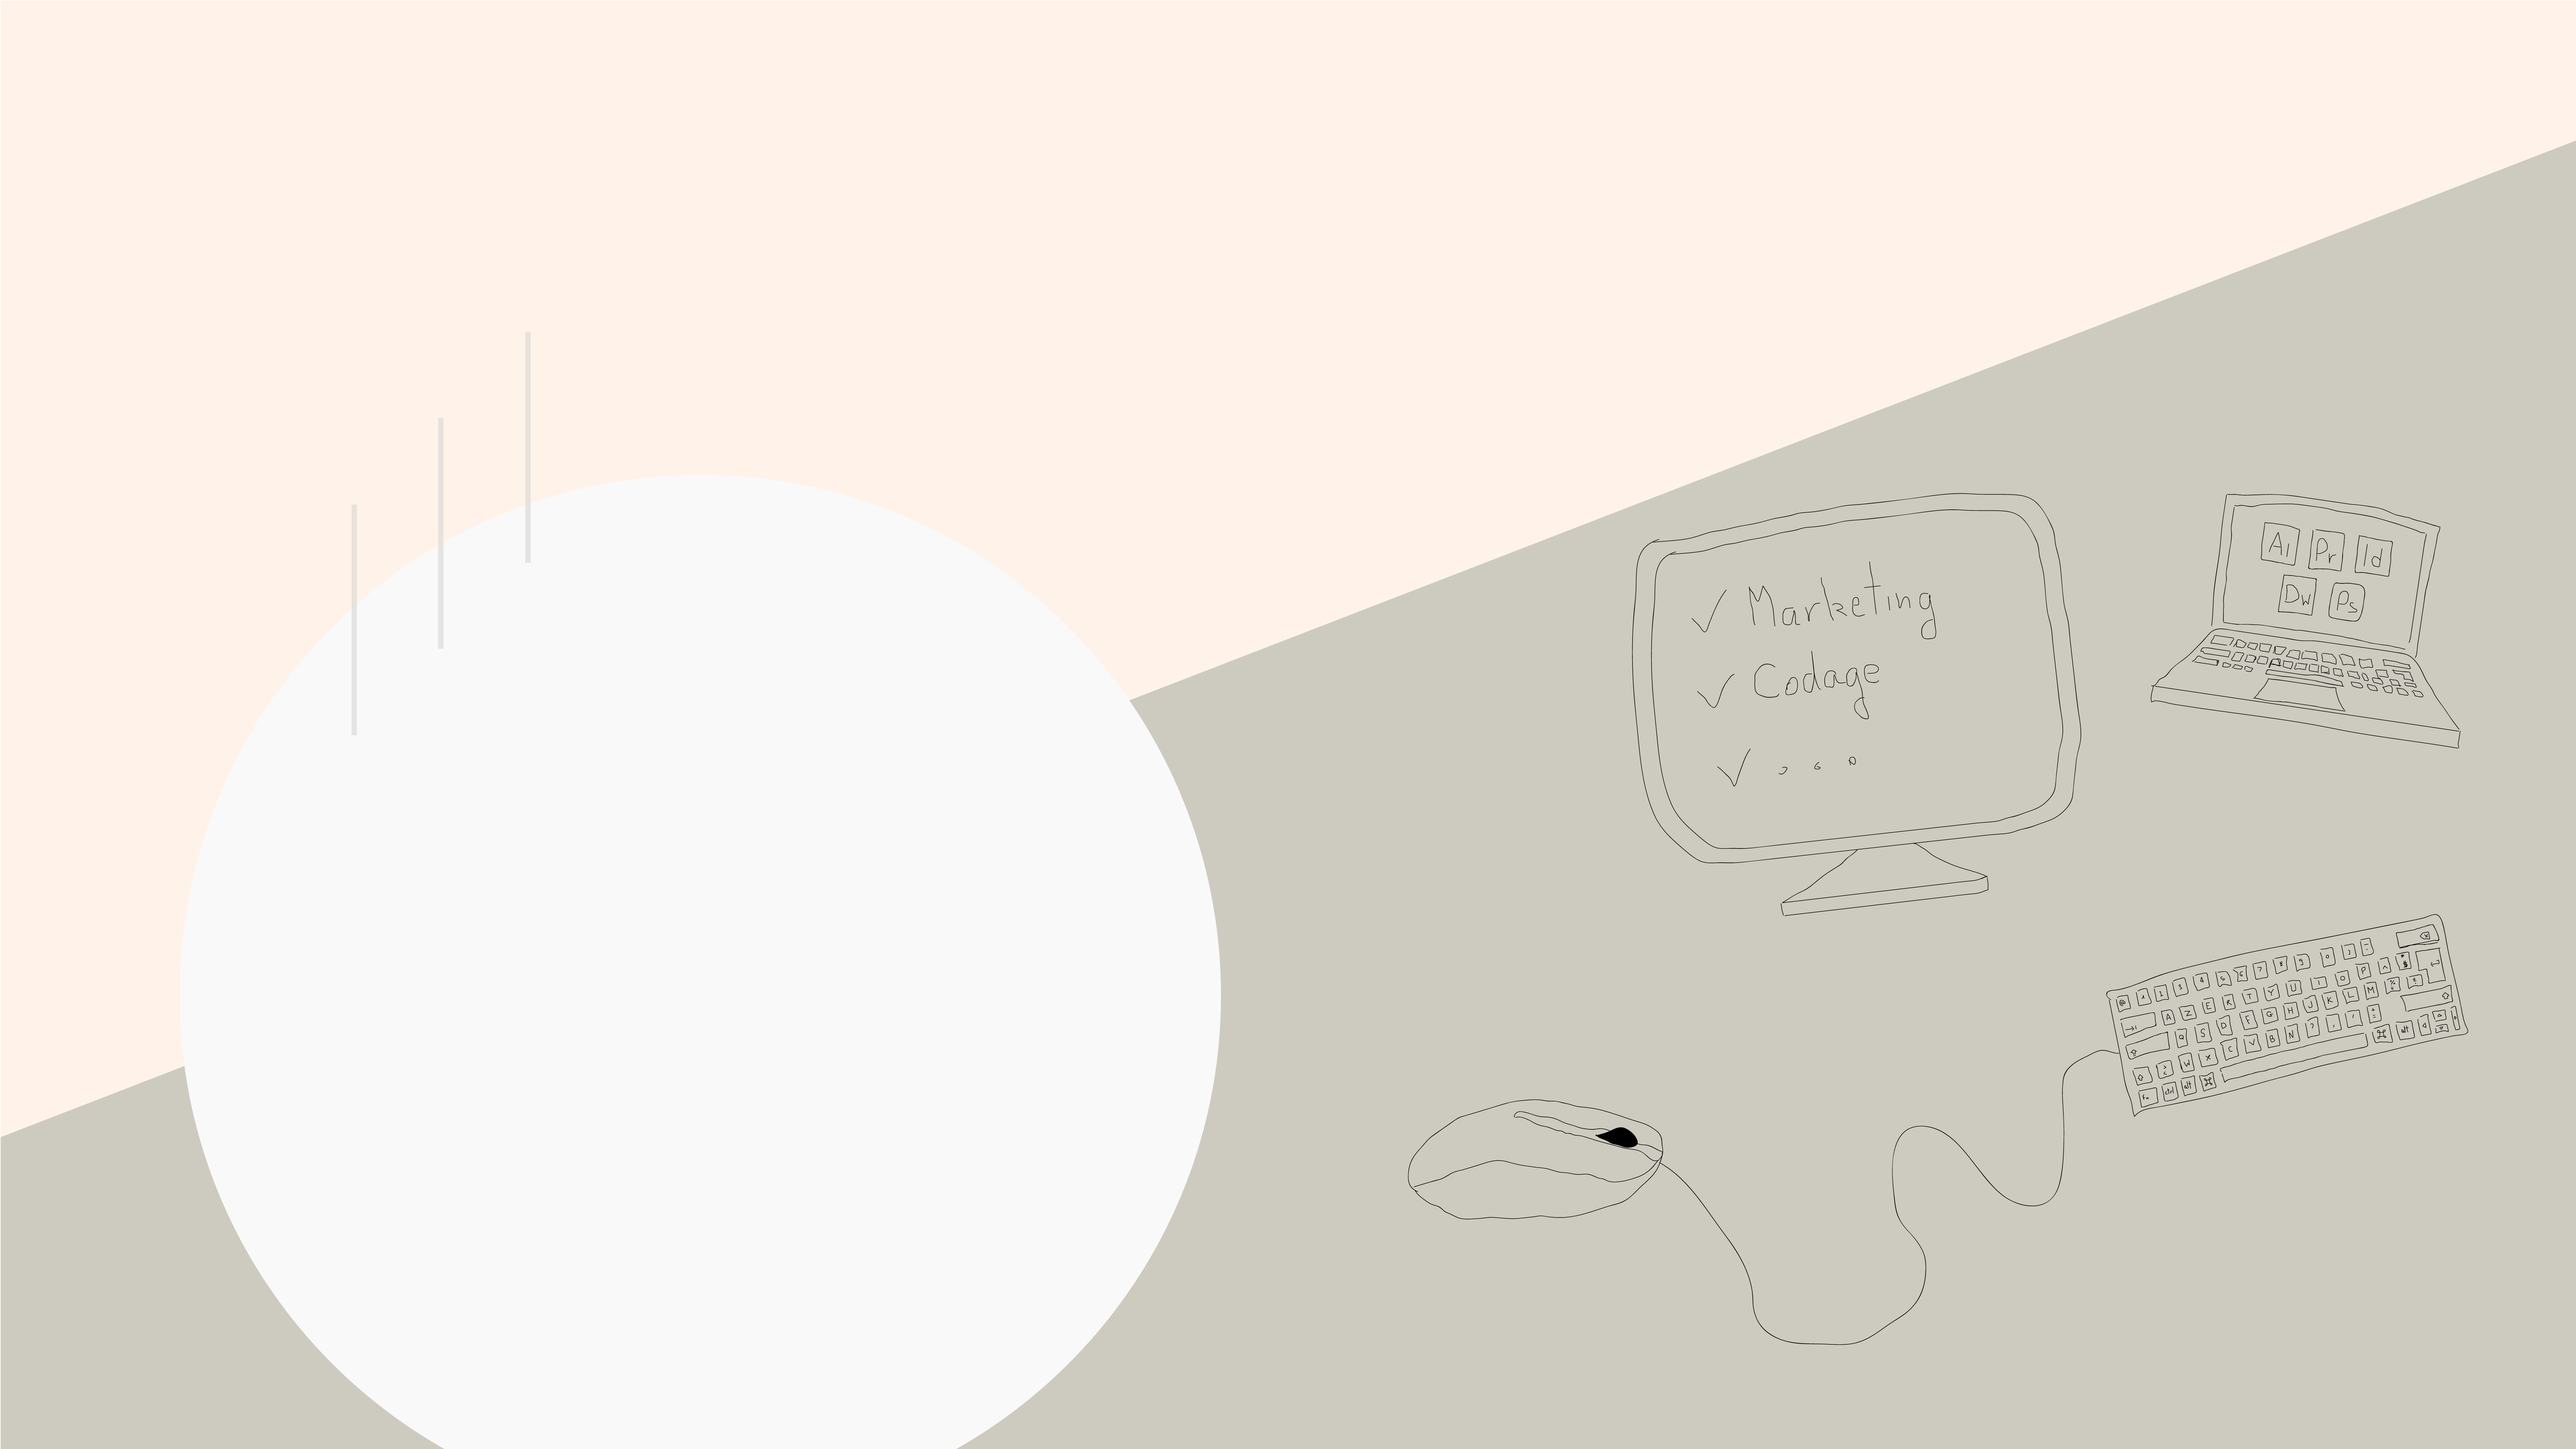
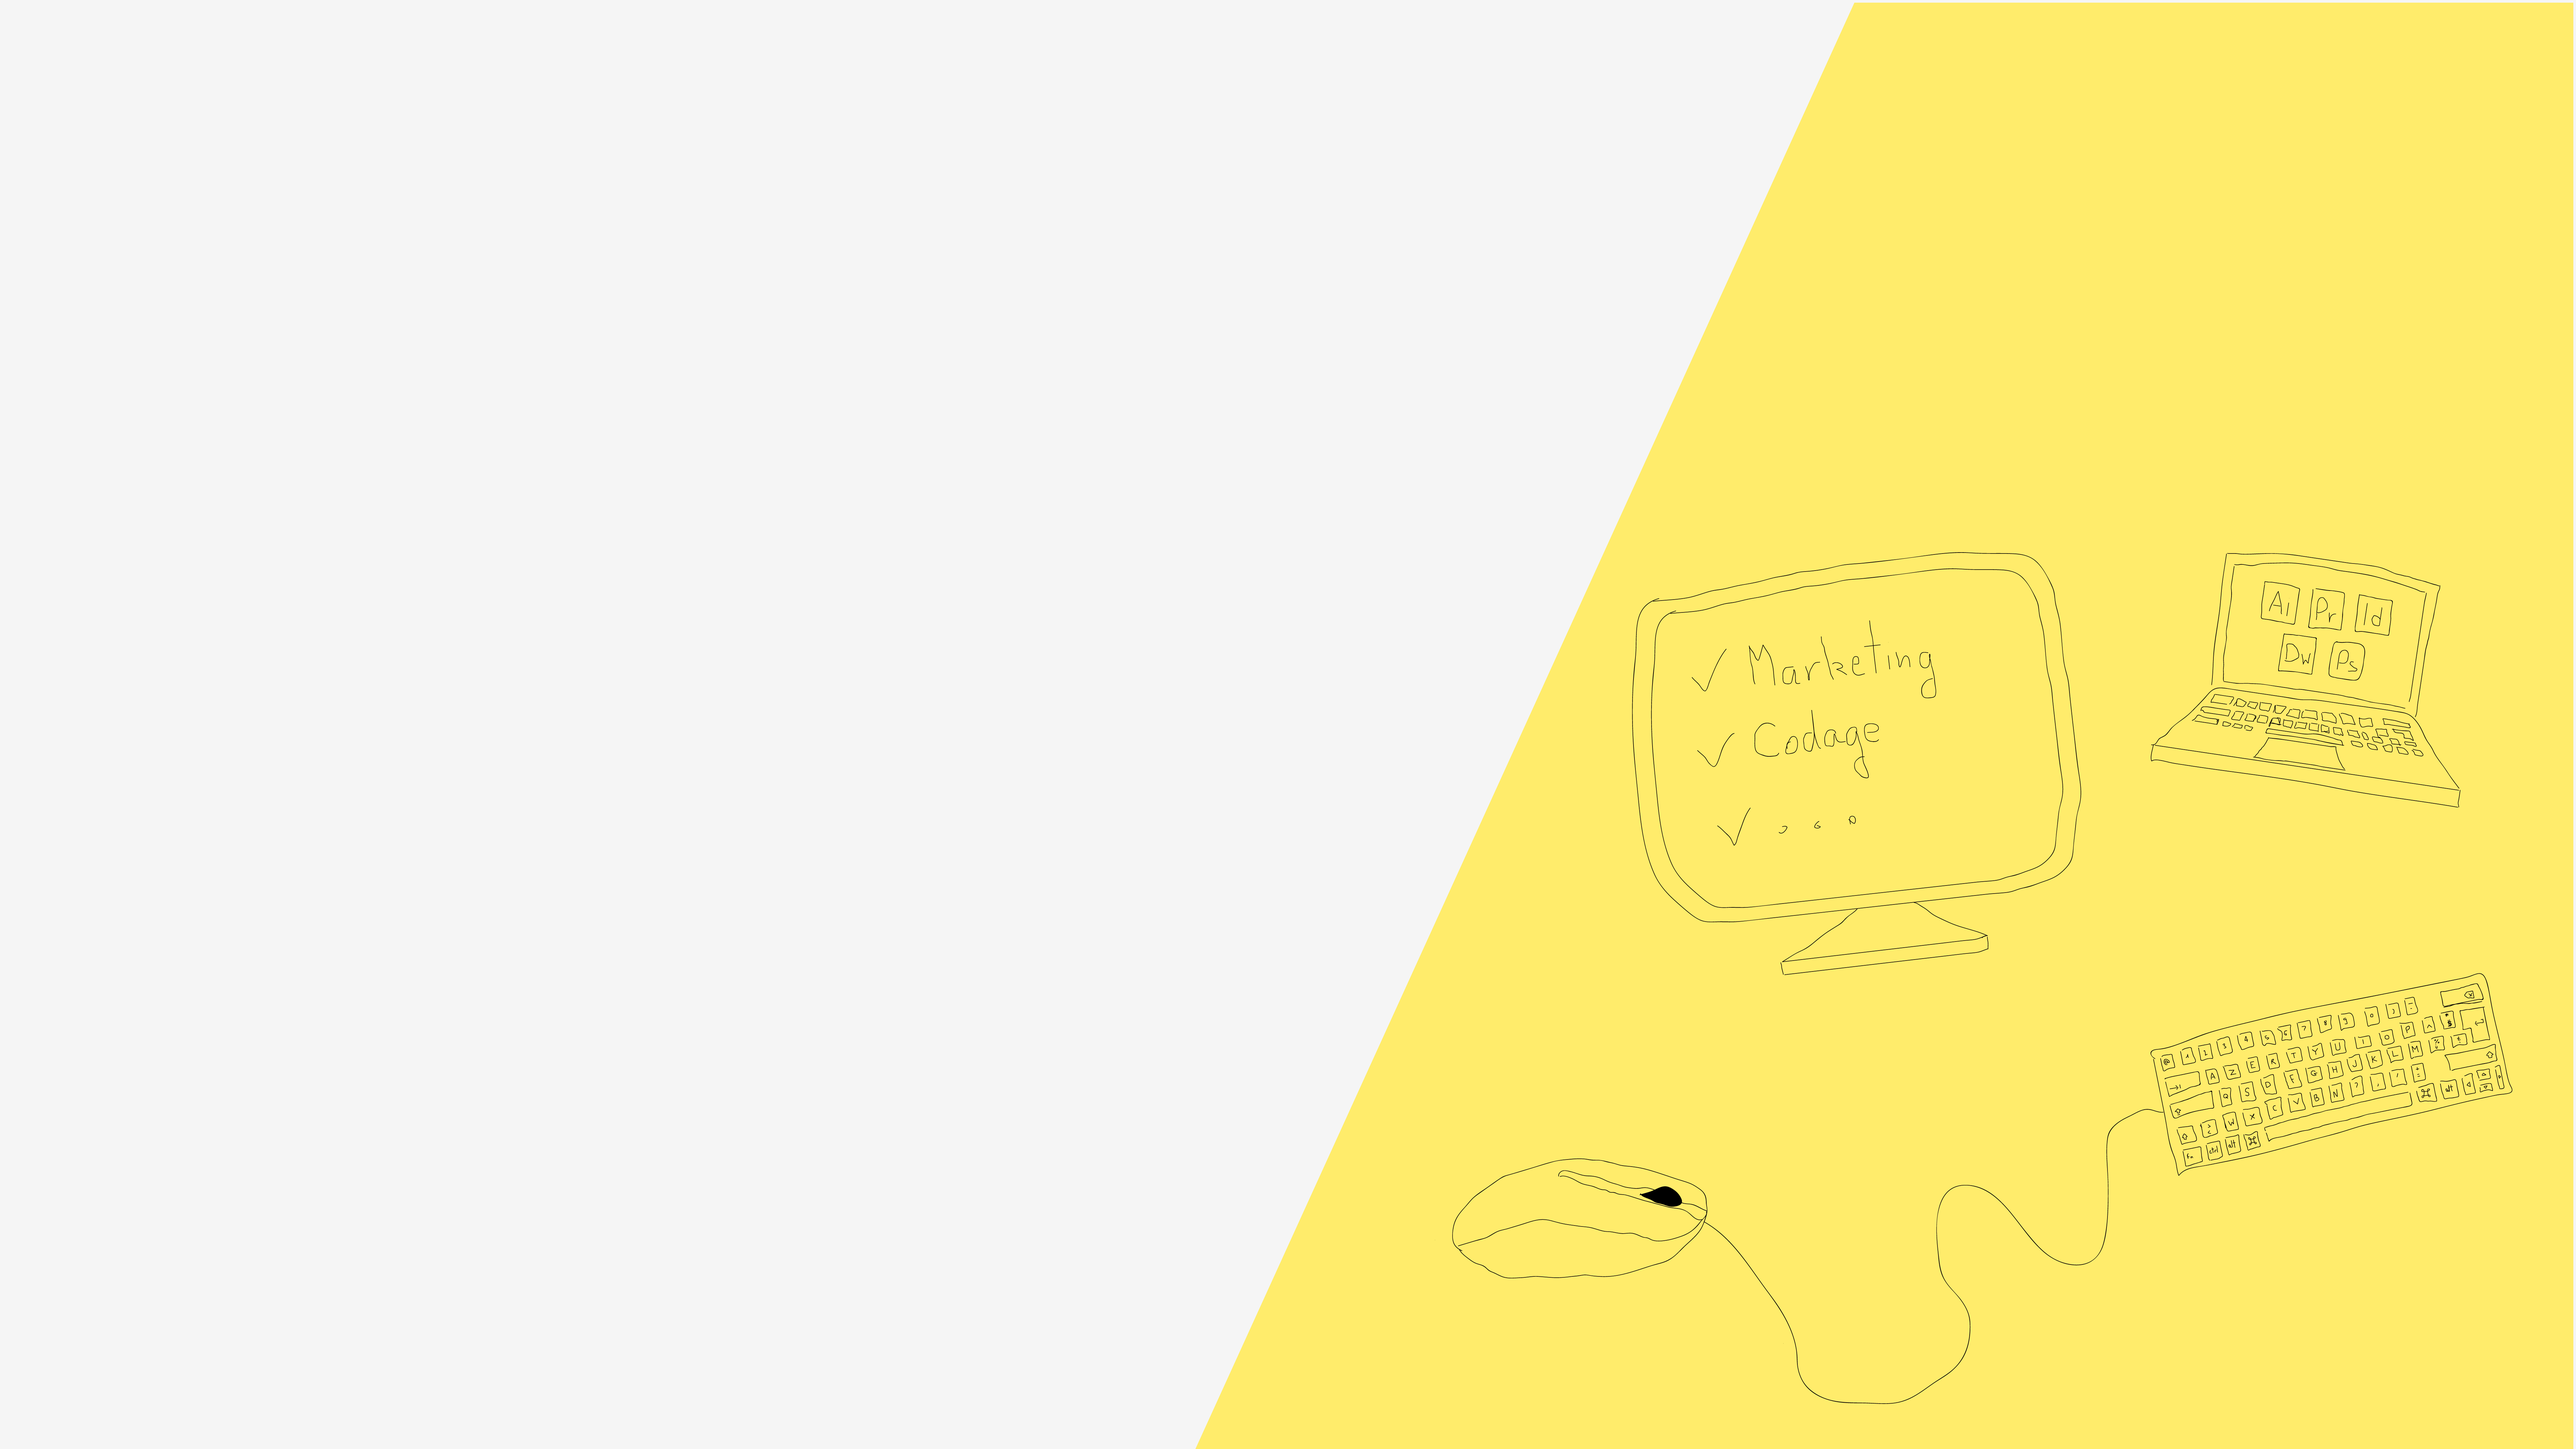
5e

diff --git a/TMP62PVVX.htm b/TMP62PVVX.htm
@@ -87,7 +87,7 @@
 		
 		<div class="right-formations">
 			<h3>Bachelor 3 Marketing Digital et Communication</h3>
-			<v>Sup Career (INSEEC U), Paris 10e</v>
+			<p>Sup Career (INSEEC U), Paris 10e</p>
 			
 			<ul class="info-formations">
 				<li>Code HTML et CSS</li>
@@ -113,7 +113,7 @@
 		
 		<div class="right-formations">
 			<h3>DUT Gestion des Entreprises et des Administrations</h3>
-			<v>IUT de Bobigny, Université Paris XIII</v>
+			<p>IUT de Bobigny, Université Paris XIII</p>
 			
 				<ul class="info-formations">
 					<li>Marketing</li>
@@ -137,7 +137,7 @@
 		</div>
 		<div class="right-formations">
 			<h3>Baccalauréat Scientifique spécialité Informatique Sciences du Numérique</h3>
-			<v>Lycée polyvalent Louise Michel, Gisors</v>
+			<p>Lycée polyvalent Louise Michel, Gisors</p>
 			
 			<ul class="info-formations">
 				<li>Informatique: HTML et CSS</li>
@@ -168,6 +168,30 @@
 	
 	<img class="phrise" src="Images/phrise.png" alt="phrise chronologique">
 	
+	<!--<div class="div-job">
+		
+		<div class="premiers-jobs">
+			<p class="job jobI job1">Ouvrier viticole</p>
+			<p class="job jobI job2">Agent d'espaces verts</p>
+		</div>
+		
+		<div class="anciens-jobs">
+			<p class="job jobII job3">Agent polyvalent<br>de restauration</p>
+			<p class="job jobII job4">Conseiller vendeur</p>
+			<p class="job jobII job5">Auxiliaire de<br>vacances</p>
+		</div>
+		
+		<div class="recents-jobs">
+			<p class="job jobIII job6">Stagiaire<br>Digital Marketing</p>
+			<p class="job jobIII job7">Hôte d'accueil</p>
+			<p class="job jobIII job8">Inventoriste</p>
+			<p class="job jobIII job9">Agent d'information</p>
+			<p class="job jobIII job10">Auxiliaire de<br>vacances</p>
+			<p class="job jobIII job11">Responsable<br>buvette</p>
+			<p class="job jobIII job12">Assistant<br>Communication</p>
+		</div>
+		
+	</div>-->
 	<button class="goto-experiences2"><a class="decouvrir" href="#5">3 missions marquantes</a></button>
 
 </section>
@@ -226,10 +250,9 @@
 	
 <section id="travaux">
 	<div class="galerie">
-		<div class="travaux-left"><h2>Quelques travaux...</h2></div>
+		<h2>Quelques travaux...</h2>
 
-		
-		<div class="image-galerie travaux-right">
+		<div class="image-galerie">
 		<a class ="img-1" href="Images/Gallery/img-1.PNG">
 			<i class="icon ion-md-expand"></i>
 		</a>

diff --git a/style/design.css b/style/design.css
@@ -1,5 +1,5 @@
 body {
-	background: url("../Images/background4.png") no-repeat center center fixed;
+	background: url("../Images/background2.png") no-repeat center center fixed;
 	  -webkit-background-size: cover;
   -moz-background-size: cover;
   -o-background-size: cover;
@@ -28,7 +28,7 @@ section{
 	left: 0;
 	width: 100%;
 	height: 100%;
-	background-color: #fff5ea;
+	background-color: #f5f5f5;
 	display: flex;
 	justify-content: center;
 	align-content: center;
@@ -80,7 +80,7 @@ span.border-bottom{
 	position: fixed;
 	width: 100%;
 	transition: transform .5s ease;
-	background-color: #fff5ea;
+	background-color: #f5f5f5;
 	display: flex;
 	align-items: center;
 	padding:15px 0;
@@ -153,6 +153,10 @@ h1 {
 	padding: 0;
 }
 
+h2{
+	font-size: 50px;
+	margin-bottom:40px;
+}
 
 .paragraphe1 {
 	font-weight: 800;
@@ -291,20 +295,20 @@ button:hover {
 .right-formations{
 	display: block;
 	float: left;
-	margin: 30px 0;
+	margin: 0;
 	margin-left: 8vw;
 	overflow-wrap: break-word;
 
 }
 
-h2{
+h3{
 	font-size: 20px;
 	font-weight: 600;
 	padding: 0;
 	margin: 0;
 }
 
-h3{
+.right-formations v{
 	font-size: 16px;
 	font-weight: 300;
 	padding: 0;
@@ -415,7 +419,7 @@ h3{
 
 .cartes img{
 	width: 250px;
-	margin: 140px 20px 0 20px;
+	margin: 0 10px;
 	transition: 0.3s;
 }
 
@@ -516,14 +520,26 @@ h3{
 	margin:0;
 	width: 95%;
 	padding: 0;
+	display: flex;
+	flex-direction: row;
 }
 	
+.travaux-left{
+	float:left;
+}
+
+.travaux-right{
+	float: right;
+}
+
 .galerie{
 	width: 80%;
-	height: 100%;
 	max-width: 100vw;
 	margin:auto;
 	padding: 0;
+	display: flex;
+	justify-content: center;
+	align-items: center;
 }
 
 .image-galerie{
@@ -545,7 +561,6 @@ h3{
 	background-size: cover;
 	position:relative;
 	display: flex;
-	align-items: center;
 	justify-content: center;
 	text-decoration: none;
 }
@@ -683,11 +698,11 @@ footer{
 	}
 
 	h2{
-		font-size: 17px;
+		font-size: 40px;
 	}
 
 	h3{
-		font-size: 14px;
+		font-size: 16px;
 	}
 
 	.info-formations{
@@ -716,7 +731,7 @@ footer{
 		right: 0;
 		width:100vw;
 		height: 100vh;
-		background-color: rgba(136, 118, 96, .99);
+		background-color: rgba(255, 236, 107, .99);
 		transform: translateX(100%);
 		margin-right: 0px;
 
@@ -855,7 +870,7 @@ footer{
 	}
 	
 	body{
-background-color: #fff5ea;
+background-color: #f5f5f5;
 	}
 	
 	.adobe{
